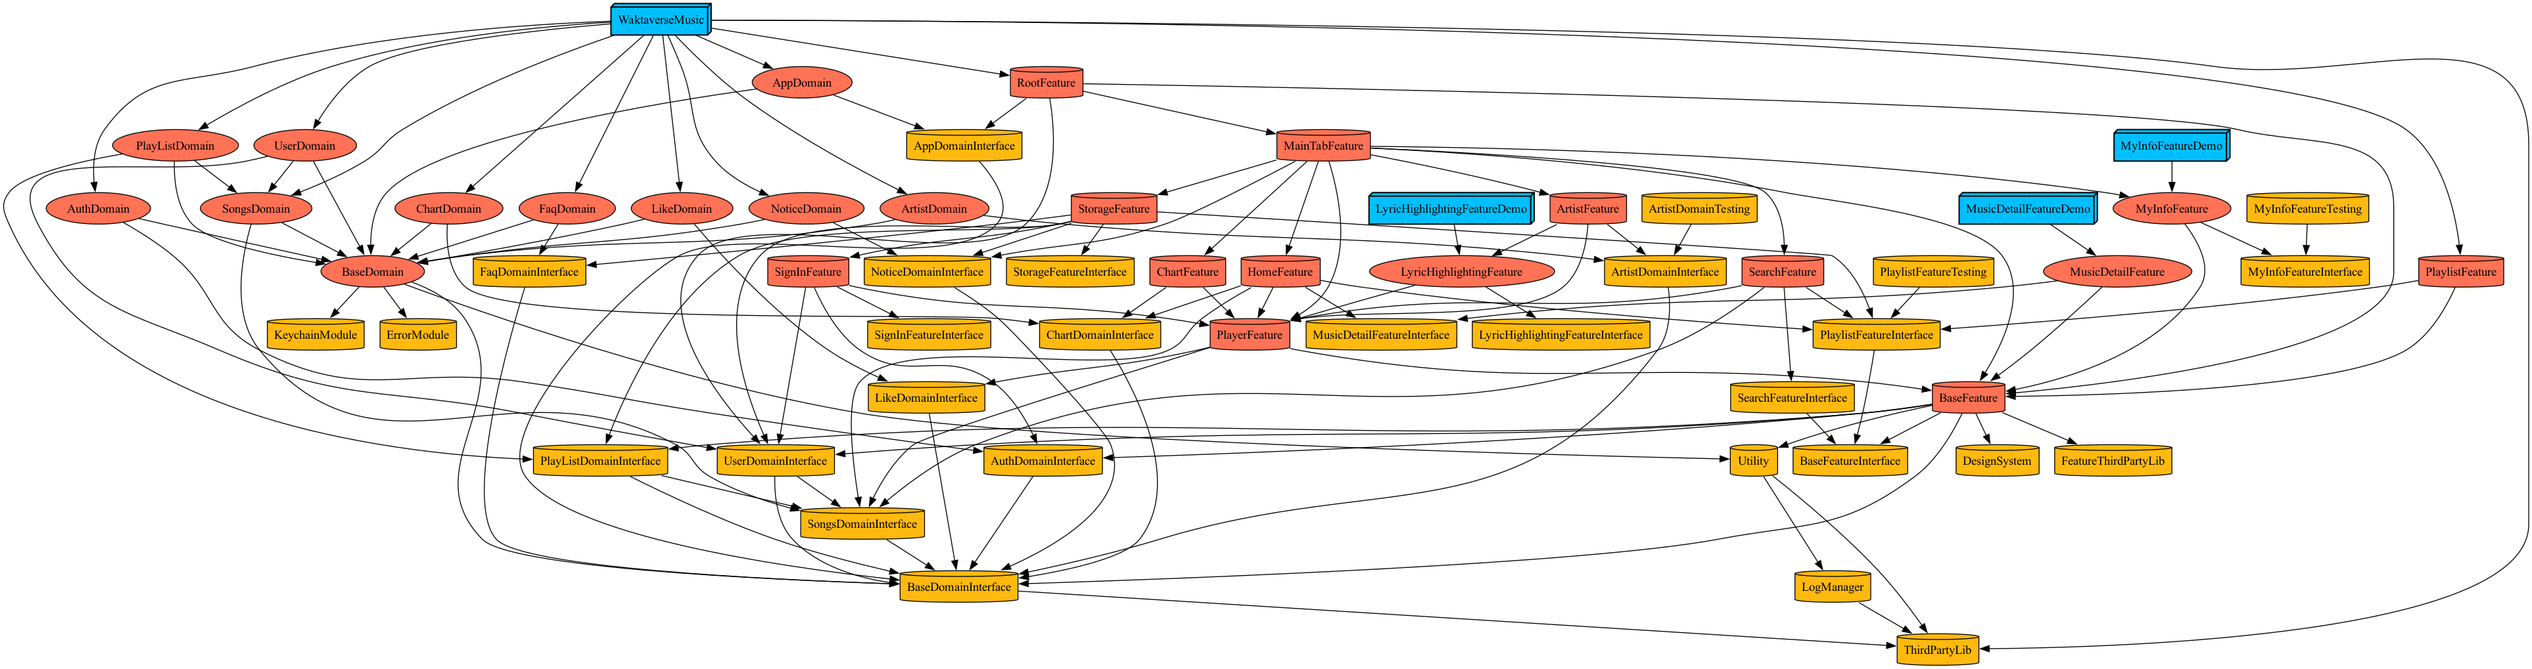
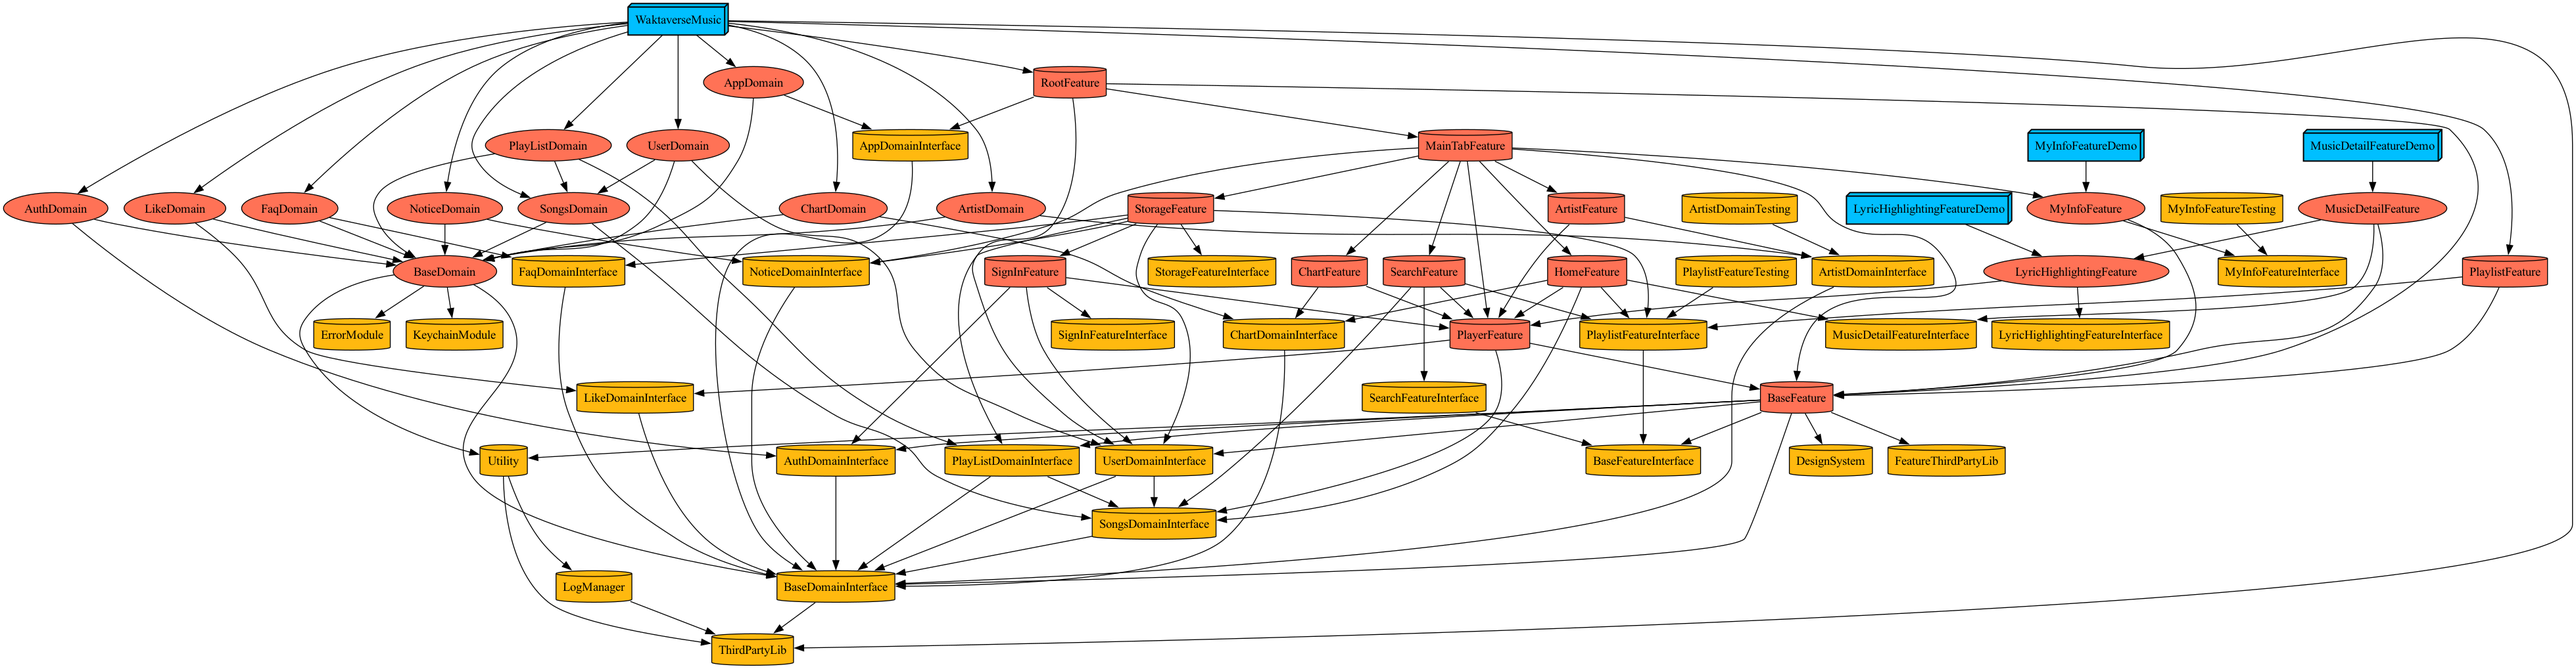
♻ :: [#491] 잠시 붙였던 컴포넌트 제거

diff --git a/Projects/Features/ArtistFeature/Sources/ViewControllers/ArtistViewController.swift b/Projects/Features/ArtistFeature/Sources/ViewControllers/ArtistViewController.swift
@@ -1,6 +1,5 @@
 import BaseFeature
 import DesignSystem
-import LyricHighlightingFeature
 import NeedleFoundation
 import NVActivityIndicatorView
 import ReactorKit
@@ -20,7 +19,6 @@ public final class ArtistViewController:
     @IBOutlet weak var activityIndicator: NVActivityIndicatorView!
 
     var artistDetailComponent: ArtistDetailComponent!
-    var lyricHighlightingComponent: LyricHighlightingComponent!
     public var disposeBag: DisposeBag = DisposeBag()
 
     override public func viewDidLoad() {
@@ -56,18 +54,8 @@ public final class ArtistViewController:
             .delay(RxTimeInterval.milliseconds(100), scheduler: MainScheduler.instance)
             .map { $0.1[$0.0.row] }
             .bind(with: self) { owner, artist in
-                let viewController = owner.lyricHighlightingComponent.makeView(
-                    model: .init(
-                        songID: "DPEtmqvaKqY",
-                        title: "리와인드 (RE:WIND)",
-                        artist: "이세계아이돌",
-                        highlightingItems: []
-                    )
-                ).wrapNavigationController
-                viewController.modalPresentationStyle = .fullScreen
-                owner.present(viewController, animated: true)
-//                let viewController = owner.artistDetailComponent.makeView(model: artist)
-//                owner.navigationController?.pushViewController(viewController, animated: true)
+                let viewController = owner.artistDetailComponent.makeView(model: artist)
+                owner.navigationController?.pushViewController(viewController, animated: true)
             }
             .disposed(by: disposeBag)
     }
@@ -95,13 +83,11 @@ public final class ArtistViewController:
 
     public static func viewController(
         reactor: ArtistReactor,
-        artistDetailComponent: ArtistDetailComponent,
-        lyricHighlightingComponent: LyricHighlightingComponent
+        artistDetailComponent: ArtistDetailComponent
     ) -> ArtistViewController {
         let viewController = ArtistViewController.viewController(storyBoardName: "Artist", bundle: Bundle.module)
         viewController.reactor = reactor
         viewController.artistDetailComponent = artistDetailComponent
-        viewController.lyricHighlightingComponent = lyricHighlightingComponent
         return viewController
     }
 }

diff --git a/Projects/App/Sources/Application/NeedleGenerated.swift b/Projects/App/Sources/Application/NeedleGenerated.swift
@@ -65,9 +65,6 @@ private class ArtistDependency132a213bf62ad60c622cProvider: ArtistDependency {
     var artistDetailComponent: ArtistDetailComponent {
         return appComponent.artistDetailComponent
     }
-    var lyricHighlightingComponent: LyricHighlightingComponent {
-        return appComponent.lyricHighlightingComponent
-    }
     private let appComponent: AppComponent
     init(appComponent: AppComponent) {
         self.appComponent = appComponent
@@ -891,7 +888,6 @@ extension ArtistComponent: Registration {
     public func registerItems() {
         keyPathToName[\ArtistDependency.fetchArtistListUseCase] = "fetchArtistListUseCase-any FetchArtistListUseCase"
         keyPathToName[\ArtistDependency.artistDetailComponent] = "artistDetailComponent-ArtistDetailComponent"
-        keyPathToName[\ArtistDependency.lyricHighlightingComponent] = "lyricHighlightingComponent-LyricHighlightingComponent"
     }
 }
 extension ArtistDetailComponent: Registration {

diff --git a/Projects/Features/ArtistFeature/Sources/Components/ArtistComponent.swift b/Projects/Features/ArtistFeature/Sources/Components/ArtistComponent.swift
@@ -8,13 +8,11 @@
 
 import ArtistDomainInterface
 import Foundation
-import LyricHighlightingFeature
 import NeedleFoundation
 
 public protocol ArtistDependency: Dependency {
     var fetchArtistListUseCase: any FetchArtistListUseCase { get }
     var artistDetailComponent: ArtistDetailComponent { get }
-    var lyricHighlightingComponent: LyricHighlightingComponent { get }
 }
 
 public final class ArtistComponent: Component<ArtistDependency> {
@@ -22,8 +20,7 @@ public final class ArtistComponent: Component<ArtistDependency> {
         let reactor = ArtistReactor(fetchArtistListUseCase: dependency.fetchArtistListUseCase)
         return ArtistViewController.viewController(
             reactor: reactor,
-            artistDetailComponent: dependency.artistDetailComponent,
-            lyricHighlightingComponent: dependency.lyricHighlightingComponent
+            artistDetailComponent: dependency.artistDetailComponent
         )
     }
 }

diff --git a/Projects/Features/MusicDetailFeature/Project.swift b/Projects/Features/MusicDetailFeature/Project.swift
@@ -8,7 +8,8 @@ let project = Project.module(
         .interface(module: .feature(.MusicDetailFeature)),
         .implements(module: .feature(.MusicDetailFeature), dependencies: [
             .feature(target: .MusicDetailFeature, type: .interface),
-            .feature(target: .BaseFeature)
+            .feature(target: .BaseFeature),
+            .feature(target: .LyricHighlightingFeature)
         ]),
         .tests(module: .feature(.MusicDetailFeature), dependencies: [
             .feature(target: .MusicDetailFeature)

diff --git a/Projects/Features/ArtistFeature/Project.swift b/Projects/Features/ArtistFeature/Project.swift
@@ -12,7 +12,6 @@ let project = Project.module(
                 resources: ["Resources/**"],
                 dependencies: [
                     .feature(target: .PlayerFeature),
-                    .feature(target: .LyricHighlightingFeature),
                     .domain(target: .ArtistDomain, type: .interface)
                 ]
             )
